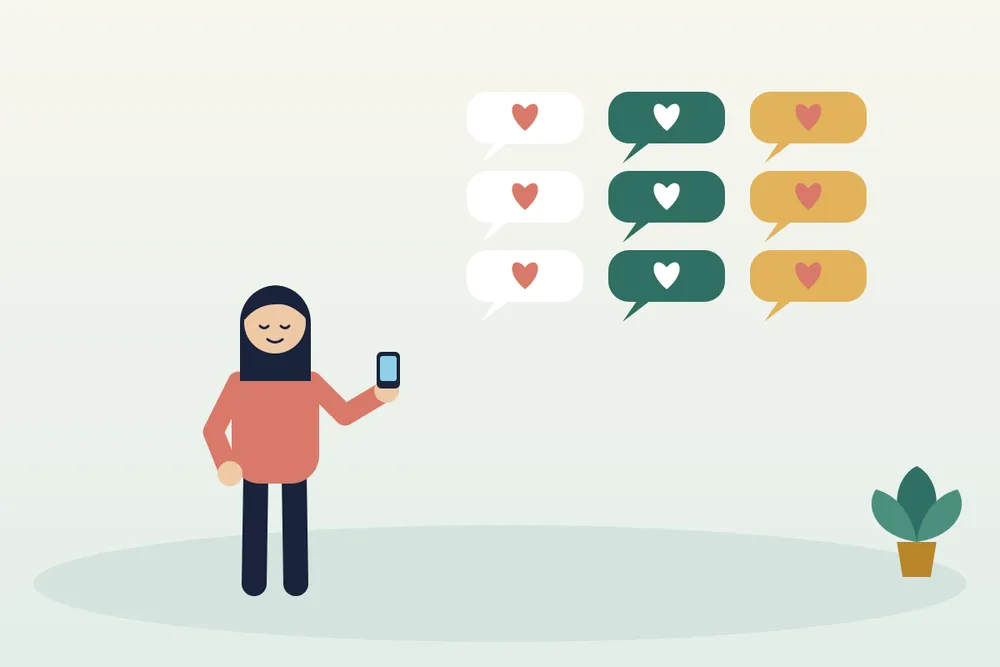
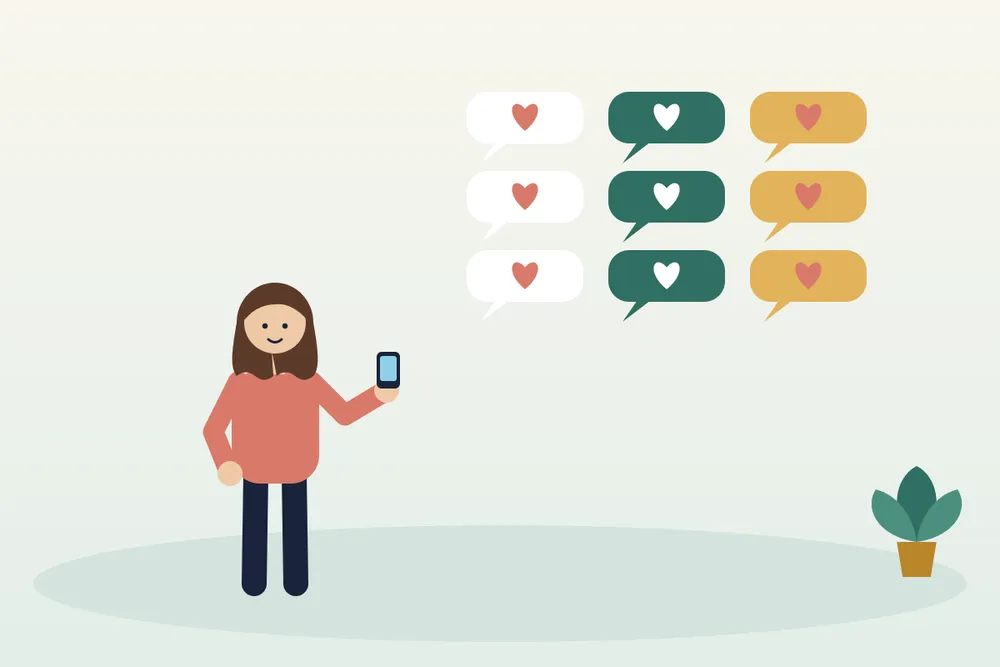
Love-bombing illustration: girl with visible hair (his request)
Claude-Session: https://claude.ai/code/session_014DRhzswer1RT6A4tDDTqQD

Changed region(s): [[0.217, 0.4198, 0.341, 0.5997]]

diff --git a/articles/early-red-flags-love-bombing/index.html b/articles/early-red-flags-love-bombing/index.html
@@ -239,7 +239,7 @@
       <h1>العلامات الحمرا في أول التعارف: إزاي تعرف القصف بالحب بدري؟</h1>
       <p class="post-meta"><a href="/about/" rel="author">د. ميلاد ميخائيل</a> · <time datetime="2026-11-16">16 نوفمبر 2026</time> · 6 دقايق قراءة</p>
       <div class="listen" hidden><button type="button" class="btn listen-btn" aria-pressed="false"><span aria-hidden="true">🎧</span> <span class="listen-label">استمع لهذا المقال</span></button><button type="button" class="btn listen-stop" hidden>إيقاف</button><label class="listen-rate">السرعة <select><option value="0.85">أبطأ</option><option value="1" selected>عادي</option><option value="1.2">أسرع</option></select></label><p class="listen-msg" role="status"></p></div>
-      <figure class="post-hero"><picture><source type="image/webp" srcset="/assets/book/art-early-red-flags-love-bombing-600.webp 600w, /assets/book/art-early-red-flags-love-bombing.webp 1000w" sizes="(max-width: 700px) 100vw, 700px"><img src="/assets/book/art-early-red-flags-love-bombing.jpg" width="1200" height="800" alt="رسم لبنت ماسكة موبايل وقدامها فقاعات رسايل كتير كلها قلوب" fetchpriority="high" decoding="async"></picture></figure>
+      <figure class="post-hero"><picture><source type="image/webp" srcset="/assets/book/art-early-red-flags-love-bombing-600.webp 600w, /assets/book/art-early-red-flags-love-bombing.webp 1000w" sizes="(max-width: 700px) 100vw, 700px"><img src="/assets/book/art-early-red-flags-love-bombing.jpg" width="1200" height="800" alt="رسم لبنت شعرها بني ماسكة موبايل وبتبتسم، وقدامها فقاعات رسايل كتير كلها قلوب" fetchpriority="high" decoding="async"></picture></figure>
       <aside class="answer-box" aria-labelledby="ans-early-red-flags-love-bombing"><h2 id="ans-early-red-flags-love-bombing">باختصار</h2><p>العلامات الحمرا غالبًا بتظهر بدري، وأخطرها «القصف بالحب»: اهتمام واستعجال زيادة عن اللزوم في الأول. الفرق بين الحماس الصادق والتلاعب بيبان لما تقول «لأ»: هل بيحترم حدودك ولا بيضغط؟ امشي على مهلك، وخلّي صحابك قريبين، ولو فيه تهديد أو أذى اطلب مساعدة فورًا.</p><nav class="toc" aria-label="في المقال ده"><p class="toc-title">في المقال ده</p><ol><li><a href="#q1">مثال من حياتنا</a></li><li><a href="#q2">يعني إيه «القصف بالحب»؟</a></li><li><a href="#q3">إشارة المرور: أحمر وأصفر وأخضر</a></li><li><a href="#q4">إزاي تحمي نفسك في أول التعارف؟</a></li><li><a href="#q5">امتى تكلم متخصص؟</a></li></ol></nav></aside>
       <div class="post-body">
 <p>«العلامات كانت موجودة من الأول، بس أنا مكنتش شايفاها.» جملة بنسمعها كتير من ناس خرجوا من علاقة مؤذية. والحقيقة إن العلامات الحمرا غالبًا بتظهر بدري، في أول أسابيع أو شهور. المشكلة إننا ساعات بنشوفها ونقول «عادي»، أو «هيتغير»، أو «ده عشان بيحبني».</p>

diff --git a/index.html b/index.html
@@ -495,7 +495,7 @@ html[lang="ar"] body.home-redesign section.section.nl-band p{margin:0;color:rgba
       </li>
         <li class="card" data-cat="relationships-family">
         <a href="/articles/early-red-flags-love-bombing/">
-          <picture><source type="image/webp" srcset="/assets/book/art-early-red-flags-love-bombing-600.webp 600w, /assets/book/art-early-red-flags-love-bombing.webp 1000w" sizes="(max-width: 640px) 100vw, 380px"><img src="/assets/book/art-early-red-flags-love-bombing.jpg" width="1200" height="800" alt="رسم لبنت ماسكة موبايل وقدامها فقاعات رسايل كتير كلها قلوب" loading="lazy" decoding="async"></picture>
+          <picture><source type="image/webp" srcset="/assets/book/art-early-red-flags-love-bombing-600.webp 600w, /assets/book/art-early-red-flags-love-bombing.webp 1000w" sizes="(max-width: 640px) 100vw, 380px"><img src="/assets/book/art-early-red-flags-love-bombing.jpg" width="1200" height="800" alt="رسم لبنت شعرها بني ماسكة موبايل وبتبتسم، وقدامها فقاعات رسايل كتير كلها قلوب" loading="lazy" decoding="async"></picture>
           <div class="card-body">
             <h3>العلامات الحمرا في أول التعارف: إزاي تعرف القصف بالحب بدري؟</h3>
             <span class="card-desc">إزاي تشوف العلامات الحمرا في أول التعارف قبل ما تتعلق؟ يعني إيه القصف بالحب، وإشارة المرور بين الأحمر والأصفر والأخضر، و٥ خطوات تحمي بيها نفسك.</span>

diff --git a/articles/dealing-with-lying-partner/index.html b/articles/dealing-with-lying-partner/index.html
@@ -331,7 +331,7 @@
       <div class="more"><h2>مقالات ممكن تعجبك</h2><ul class="cards">
         <li class="card" data-cat="relationships-family">
         <a href="/articles/early-red-flags-love-bombing/">
-          <picture><source type="image/webp" srcset="/assets/book/art-early-red-flags-love-bombing-600.webp 600w, /assets/book/art-early-red-flags-love-bombing.webp 1000w" sizes="(max-width: 640px) 100vw, 380px"><img src="/assets/book/art-early-red-flags-love-bombing.jpg" width="1200" height="800" alt="رسم لبنت ماسكة موبايل وقدامها فقاعات رسايل كتير كلها قلوب" loading="lazy" decoding="async"></picture>
+          <picture><source type="image/webp" srcset="/assets/book/art-early-red-flags-love-bombing-600.webp 600w, /assets/book/art-early-red-flags-love-bombing.webp 1000w" sizes="(max-width: 640px) 100vw, 380px"><img src="/assets/book/art-early-red-flags-love-bombing.jpg" width="1200" height="800" alt="رسم لبنت شعرها بني ماسكة موبايل وبتبتسم، وقدامها فقاعات رسايل كتير كلها قلوب" loading="lazy" decoding="async"></picture>
           <div class="card-body">
             <h3>العلامات الحمرا في أول التعارف: إزاي تعرف القصف بالحب بدري؟</h3>
             <span class="card-desc">إزاي تشوف العلامات الحمرا في أول التعارف قبل ما تتعلق؟ يعني إيه القصف بالحب، وإشارة المرور بين الأحمر والأصفر والأخضر، و٥ خطوات تحمي بيها نفسك.</span>

diff --git a/articles/dealing-with-narcissistic-partner/index.html b/articles/dealing-with-narcissistic-partner/index.html
@@ -350,7 +350,7 @@
       </li>
         <li class="card" data-cat="relationships-family">
         <a href="/articles/early-red-flags-love-bombing/">
-          <picture><source type="image/webp" srcset="/assets/book/art-early-red-flags-love-bombing-600.webp 600w, /assets/book/art-early-red-flags-love-bombing.webp 1000w" sizes="(max-width: 640px) 100vw, 380px"><img src="/assets/book/art-early-red-flags-love-bombing.jpg" width="1200" height="800" alt="رسم لبنت ماسكة موبايل وقدامها فقاعات رسايل كتير كلها قلوب" loading="lazy" decoding="async"></picture>
+          <picture><source type="image/webp" srcset="/assets/book/art-early-red-flags-love-bombing-600.webp 600w, /assets/book/art-early-red-flags-love-bombing.webp 1000w" sizes="(max-width: 640px) 100vw, 380px"><img src="/assets/book/art-early-red-flags-love-bombing.jpg" width="1200" height="800" alt="رسم لبنت شعرها بني ماسكة موبايل وبتبتسم، وقدامها فقاعات رسايل كتير كلها قلوب" loading="lazy" decoding="async"></picture>
           <div class="card-body">
             <h3>العلامات الحمرا في أول التعارف: إزاي تعرف القصف بالحب بدري؟</h3>
             <span class="card-desc">إزاي تشوف العلامات الحمرا في أول التعارف قبل ما تتعلق؟ يعني إيه القصف بالحب، وإشارة المرور بين الأحمر والأصفر والأخضر، و٥ خطوات تحمي بيها نفسك.</span>

diff --git a/articles/why-is-it-hard-to-leave/index.html b/articles/why-is-it-hard-to-leave/index.html
@@ -354,7 +354,7 @@
       </li>
         <li class="card" data-cat="relationships-family">
         <a href="/articles/early-red-flags-love-bombing/">
-          <picture><source type="image/webp" srcset="/assets/book/art-early-red-flags-love-bombing-600.webp 600w, /assets/book/art-early-red-flags-love-bombing.webp 1000w" sizes="(max-width: 640px) 100vw, 380px"><img src="/assets/book/art-early-red-flags-love-bombing.jpg" width="1200" height="800" alt="رسم لبنت ماسكة موبايل وقدامها فقاعات رسايل كتير كلها قلوب" loading="lazy" decoding="async"></picture>
+          <picture><source type="image/webp" srcset="/assets/book/art-early-red-flags-love-bombing-600.webp 600w, /assets/book/art-early-red-flags-love-bombing.webp 1000w" sizes="(max-width: 640px) 100vw, 380px"><img src="/assets/book/art-early-red-flags-love-bombing.jpg" width="1200" height="800" alt="رسم لبنت شعرها بني ماسكة موبايل وبتبتسم، وقدامها فقاعات رسايل كتير كلها قلوب" loading="lazy" decoding="async"></picture>
           <div class="card-body">
             <h3>العلامات الحمرا في أول التعارف: إزاي تعرف القصف بالحب بدري؟</h3>
             <span class="card-desc">إزاي تشوف العلامات الحمرا في أول التعارف قبل ما تتعلق؟ يعني إيه القصف بالحب، وإشارة المرور بين الأحمر والأصفر والأخضر، و٥ خطوات تحمي بيها نفسك.</span>

diff --git a/start/index.html b/start/index.html
@@ -232,7 +232,7 @@
       </li>
         <li class="card" data-cat="relationships-family">
         <a href="/articles/early-red-flags-love-bombing/">
-          <picture><source type="image/webp" srcset="/assets/book/art-early-red-flags-love-bombing-600.webp 600w, /assets/book/art-early-red-flags-love-bombing.webp 1000w" sizes="(max-width: 640px) 100vw, 380px"><img src="/assets/book/art-early-red-flags-love-bombing.jpg" width="1200" height="800" alt="رسم لبنت ماسكة موبايل وقدامها فقاعات رسايل كتير كلها قلوب" loading="lazy" decoding="async"></picture>
+          <picture><source type="image/webp" srcset="/assets/book/art-early-red-flags-love-bombing-600.webp 600w, /assets/book/art-early-red-flags-love-bombing.webp 1000w" sizes="(max-width: 640px) 100vw, 380px"><img src="/assets/book/art-early-red-flags-love-bombing.jpg" width="1200" height="800" alt="رسم لبنت شعرها بني ماسكة موبايل وبتبتسم، وقدامها فقاعات رسايل كتير كلها قلوب" loading="lazy" decoding="async"></picture>
           <div class="card-body">
             <h3>العلامات الحمرا في أول التعارف: إزاي تعرف القصف بالحب بدري؟</h3>
             <span class="card-desc">إزاي تشوف العلامات الحمرا في أول التعارف قبل ما تتعلق؟ يعني إيه القصف بالحب، وإشارة المرور بين الأحمر والأصفر والأخضر، و٥ خطوات تحمي بيها نفسك.</span>

diff --git a/articles/category/relationships-family/index.html b/articles/category/relationships-family/index.html
@@ -296,7 +296,7 @@
       </li>
       <li class="card" data-cat="relationships-family">
         <a href="/articles/early-red-flags-love-bombing/">
-          <picture><source type="image/webp" srcset="/assets/book/art-early-red-flags-love-bombing-600.webp 600w, /assets/book/art-early-red-flags-love-bombing.webp 1000w" sizes="(max-width: 640px) 100vw, 380px"><img src="/assets/book/art-early-red-flags-love-bombing.jpg" width="1200" height="800" alt="رسم لبنت ماسكة موبايل وقدامها فقاعات رسايل كتير كلها قلوب" loading="lazy" decoding="async"></picture>
+          <picture><source type="image/webp" srcset="/assets/book/art-early-red-flags-love-bombing-600.webp 600w, /assets/book/art-early-red-flags-love-bombing.webp 1000w" sizes="(max-width: 640px) 100vw, 380px"><img src="/assets/book/art-early-red-flags-love-bombing.jpg" width="1200" height="800" alt="رسم لبنت شعرها بني ماسكة موبايل وبتبتسم، وقدامها فقاعات رسايل كتير كلها قلوب" loading="lazy" decoding="async"></picture>
           <div class="card-body">
             <h2>العلامات الحمرا في أول التعارف: إزاي تعرف القصف بالحب بدري؟</h2>
             <span class="card-desc">إزاي تشوف العلامات الحمرا في أول التعارف قبل ما تتعلق؟ يعني إيه القصف بالحب، وإشارة المرور بين الأحمر والأصفر والأخضر، و٥ خطوات تحمي بيها نفسك.</span>

diff --git a/articles/index.html b/articles/index.html
@@ -335,7 +335,7 @@
       </li>
       <li class="card" data-cat="relationships-family">
         <a href="/articles/early-red-flags-love-bombing/">
-          <picture><source type="image/webp" srcset="/assets/book/art-early-red-flags-love-bombing-600.webp 600w, /assets/book/art-early-red-flags-love-bombing.webp 1000w" sizes="(max-width: 640px) 100vw, 380px"><img src="/assets/book/art-early-red-flags-love-bombing.jpg" width="1200" height="800" alt="رسم لبنت ماسكة موبايل وقدامها فقاعات رسايل كتير كلها قلوب" loading="lazy" decoding="async"></picture>
+          <picture><source type="image/webp" srcset="/assets/book/art-early-red-flags-love-bombing-600.webp 600w, /assets/book/art-early-red-flags-love-bombing.webp 1000w" sizes="(max-width: 640px) 100vw, 380px"><img src="/assets/book/art-early-red-flags-love-bombing.jpg" width="1200" height="800" alt="رسم لبنت شعرها بني ماسكة موبايل وبتبتسم، وقدامها فقاعات رسايل كتير كلها قلوب" loading="lazy" decoding="async"></picture>
           <div class="card-body">
             <h2>العلامات الحمرا في أول التعارف: إزاي تعرف القصف بالحب بدري؟</h2>
             <span class="card-desc">إزاي تشوف العلامات الحمرا في أول التعارف قبل ما تتعلق؟ يعني إيه القصف بالحب، وإشارة المرور بين الأحمر والأصفر والأخضر، و٥ خطوات تحمي بيها نفسك.</span>

diff --git a/tools/draw_article_art.py b/tools/draw_article_art.py
@@ -33,6 +33,9 @@ def person(cx,base,h,shirt=T,hair=N,skin=S1,pants=N,pose='stand',la=None,ra=None
     # neck + head
     o.append(f'<rect x="{cx-r*0.32:.0f}" y="{hy+r*0.7:.0f}" width="{r*0.64:.0f}" height="{r:.0f}" fill="{skin}"/>')
     if hairstyle=='long': o.append(f'<path d="M{cx-r*1.15:.0f},{hy:.0f} a{r*1.15:.0f},{r*1.2:.0f} 0 0 1 {r*2.3:.0f},0 v{r*1.9:.0f} h-{r*2.3:.0f} z" fill="{hair}"/>')
+    if hairstyle=='loose':  # visible shoulder-length wavy hair (no head cover)
+        L=cx-r*1.25; R_=cx+r*1.25; b=hy+r*1.75
+        o.append(f'<path d="M{L:.0f},{hy:.0f} a{r*1.25:.0f},{r*1.3:.0f} 0 0 1 {r*2.5:.0f},0 C{R_+r*0.15:.0f},{hy+r*0.8:.0f} {R_+r*0.25:.0f},{b-r*0.3:.0f} {R_:.0f},{b:.0f} q-{r*0.3:.0f},{r*0.25:.0f} -{r*0.6:.0f},0 q-{r*0.3:.0f},-{r*0.25:.0f} -{r*0.6:.0f},0 L{cx-r*0.1:.0f},{hy+r*0.9:.0f} L{L+r*1.2:.0f},{b:.0f} q-{r*0.3:.0f},{r*0.25:.0f} -{r*0.6:.0f},0 q-{r*0.3:.0f},-{r*0.25:.0f} -{r*0.6:.0f},0 C{L-r*0.25:.0f},{b-r*0.3:.0f} {L-r*0.15:.0f},{hy+r*0.8:.0f} {L:.0f},{hy:.0f} z" fill="{hair}"/>')
     o.append(f'<circle cx="{cx:.0f}" cy="{hy:.0f}" r="{r:.0f}" fill="{skin}"/>')
     if hairstyle=='hijab':
         o.append(f'<path d="M{cx-r*1.12:.0f},{hy+r*0.2:.0f} a{r*1.12:.0f},{r*1.25:.0f} 0 0 1 {r*2.24:.0f},0 l{r*0.2:.0f},{r*1.6:.0f} h-{r*2.64:.0f} z" fill="{hair}"/><ellipse cx="{cx:.0f}" cy="{hy+r*0.12:.0f}" rx="{r*0.72:.0f}" ry="{r*0.82:.0f}" fill="{skin}"/>')
@@ -115,7 +118,7 @@ A['art-why-is-it-hard-to-leave']=bg()+ground()+f'<rect x="900" y="210" width="22
 def scale(x,y): return f'<rect x="{x-10}" y="{y}" width="20" height="300" rx="8" fill="{N}"/><rect x="{x-90}" y="{y+290}" width="180" height="24" rx="10" fill="{N}"/><path d="M{x-230},{y+30} L{x+230},{y-10}" stroke="{N}" stroke-width="14" stroke-linecap="round"/><path d="M{x-230},{y+30} l-60,120 h120 z M{x+230},{y-10} l-60,120 h120 z" fill="none" stroke="{N}" stroke-width="6"/><path d="M{x-300},{y+150} h140 a70,30 0 0 1 -140,0 z" fill="{G}"/><path d="M{x+160},{y+110} h140 a70,30 0 0 1 -140,0 z" fill="{T}"/>'
 A['art-why-is-it-hard-to-leave-2']=bg()+ground()+scale(520,260)+house(245,346,90,R,'#b85f52')+heart(750,350,1.6,R)+person(980,700,340,shirt=LB,hair=N,skin=S2,face='calm',hairstyle='short',la=[(-40,50),(-70,10)],ra=[(30,60),(40,100)])+qmark(940,250,1.2,N)+plant(160,650,.7)+END
 # red flags 1: a girl looking at a phone flooded with many heart bubbles (love bombing)
-A['art-early-red-flags-love-bombing']=bg()+ground()+''.join(bubble(560+(i%3)*170,110+(i//3)*95,140,62,[W,T,G][i%3],1)+heart(630+(i%3)*170,145+(i//3)*95,1.2,R if i%3!=1 else W) for i in range(9))+person(330,700,350,shirt=R,hair=N,skin=S1,face='calm',hairstyle='long',la=[(-30,60),(-10,110)],ra=[(40,40),(90,10)])+phone(466,446)+plant(1100,650,.7)+END
+A['art-early-red-flags-love-bombing']=bg()+ground()+''.join(bubble(560+(i%3)*170,110+(i//3)*95,140,62,[W,T,G][i%3],1)+heart(630+(i%3)*170,145+(i//3)*95,1.2,R if i%3!=1 else W) for i in range(9))+person(330,700,350,shirt=R,hair='#5b3a29',skin=S1,face='smile',hairstyle='loose',la=[(-30,60),(-10,110)],ra=[(40,40),(90,10)])+phone(466,446)+plant(1100,650,.7)+END
 # red flags 2: a traffic light (red / amber / green) next to a thoughtful young man
 def tlight(x,y): return f'<rect x="{x-14}" y="{y+300}" width="28" height="260" rx="10" fill="{N}"/><rect x="{x-80}" y="{y}" width="160" height="320" rx="40" fill="{N}"/><circle cx="{x}" cy="{y+60}" r="42" fill="{R}"/><circle cx="{x}" cy="{y+160}" r="42" fill="{G}"/><circle cx="{x}" cy="{y+260}" r="42" fill="#5fb08f"/>'
 A['art-early-red-flags-love-bombing-2']=bg(sun(160,150,50))+ground()+tlight(470,120)+person(790,700,340,shirt=T,hair=N,skin=S2,face='calm',hairstyle='short',la=[(-40,50),(-60,10)],ra=[(30,60),(40,110)])+qmark(860,230,1.1,N)+plant(1080,650,.7)+END
